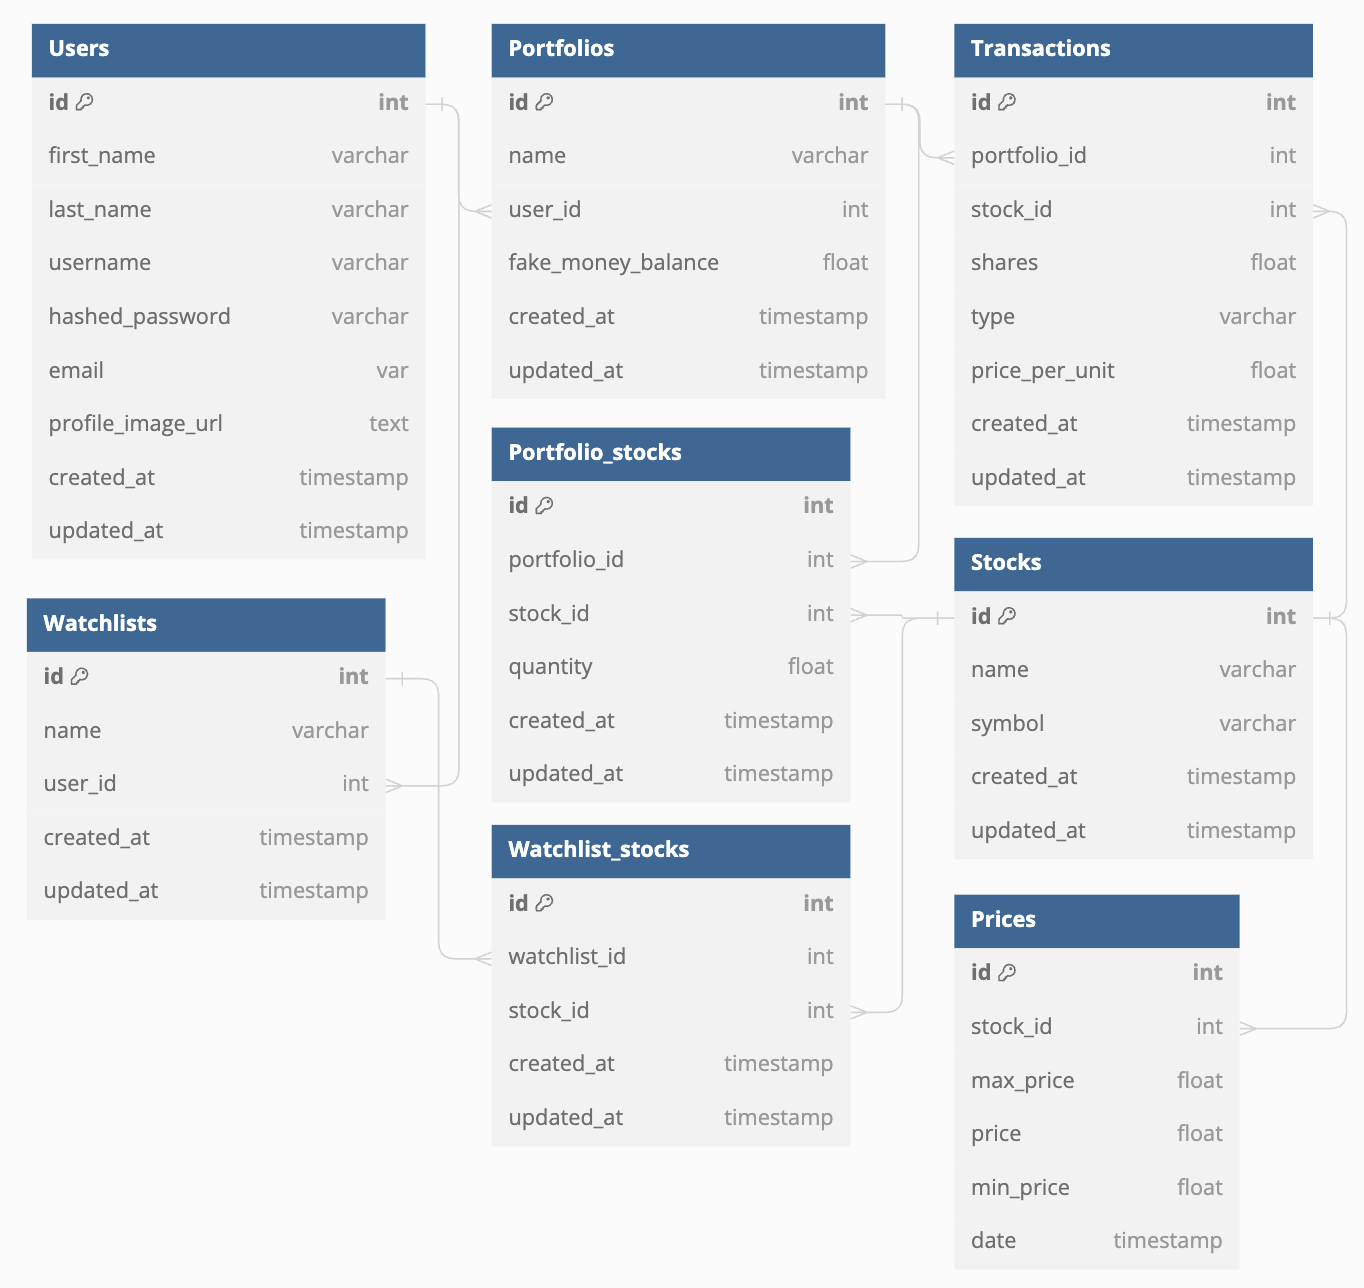
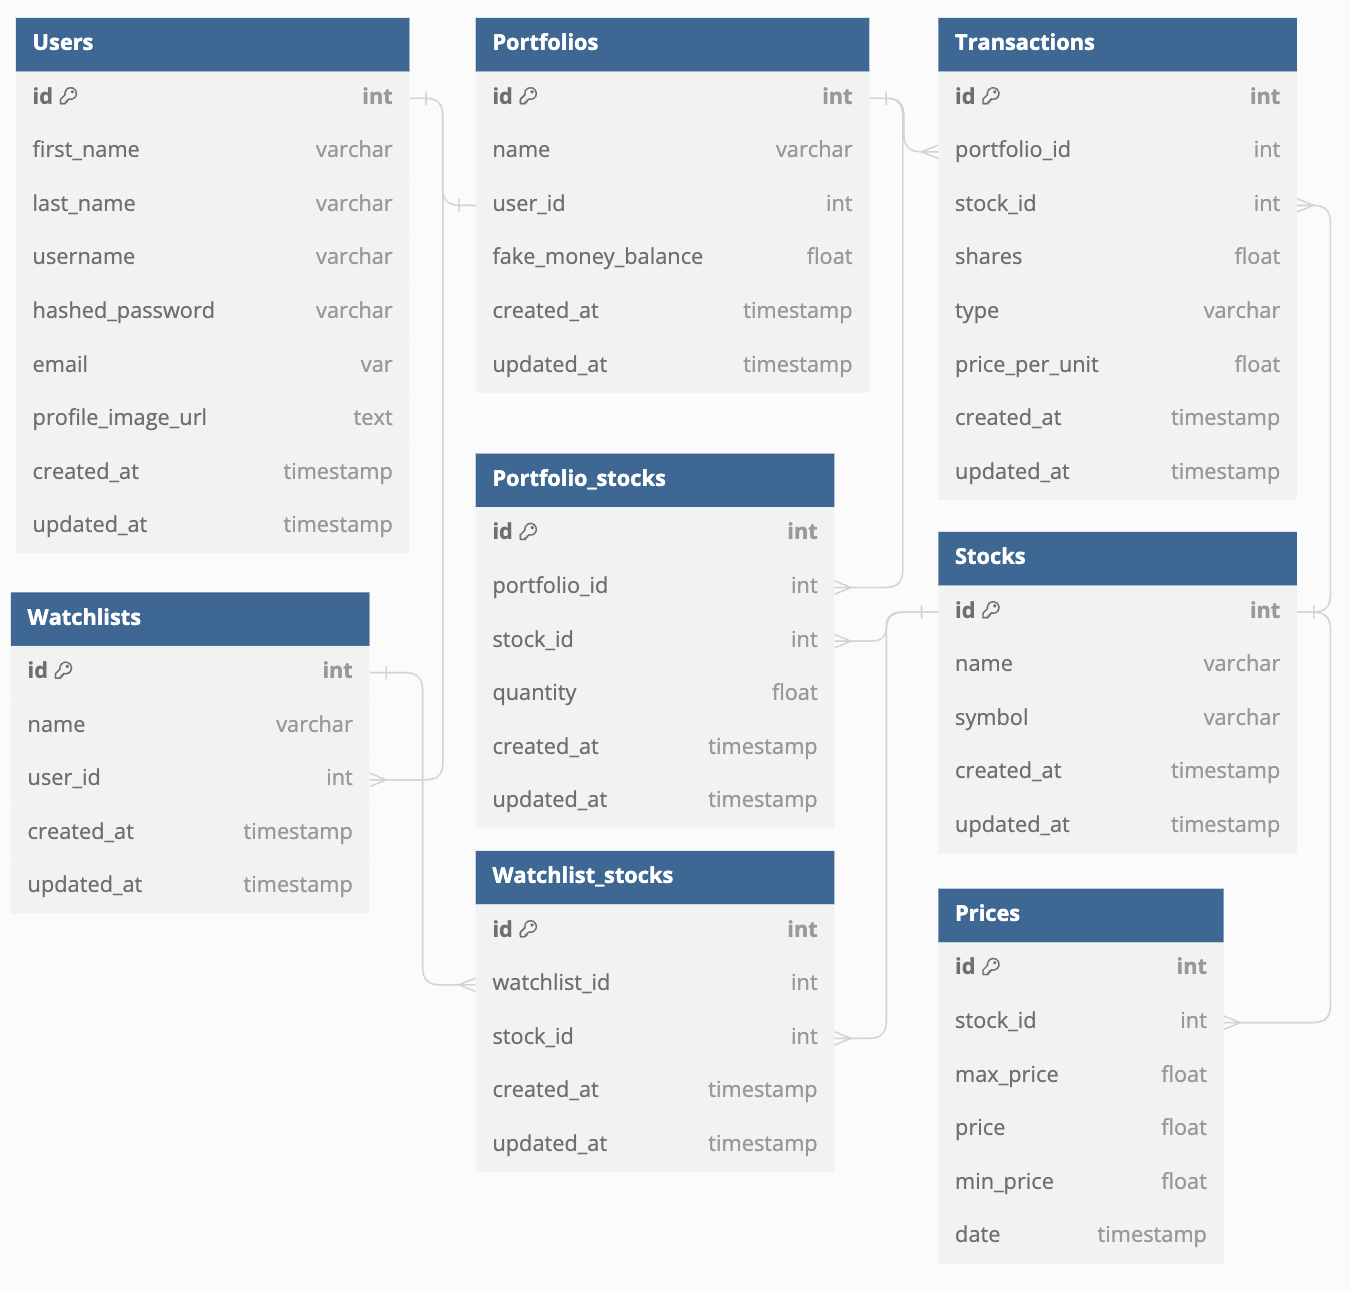
updated schema and kanban

diff --git a/designDocs/kanban.md b/designDocs/kanban.md
@@ -18,19 +18,18 @@ All endpoints that require a current user to have the correct role(s) or permiss
 Creates a new user, logs them in as the current user, and returns the current user's information.
 
 - [ ] New user exists in the database after request
-- [ ] Successful response includes newly created `id`, `firstName`, `lastName`, `email`, `username`, `fund`, and `profile_image_url`
-- [ ] Error response with status 500 is given when the specified email or username
-  already exists
-- [ ] Error response with status 400 is given when body validations for the `firstName`, `lastName`, `email`, `username`, `fund`, or `profile_image_url` are violated
+- [ ] Successful response includes newly created `id`, `firstName`, `lastName`, `email`, `username`, and `profile_image_url`
+- [ ] Error response with status 500 is given when the specified `email` or `username` already exists
+- [ ] Error response with status 400 is given when body validations for the `firstName`, `lastName`, `email`, `username`, or `profile_image_url` are violated
 
 
 ### Log In a User (Feature 0)
 
 Logs in a current user with valid credentials and returns the current user's information.
 
-- [ ] Successful response includes the user's `id`, `firstName`, `lastName`, `email`, `username`, `fund`, and `profile_image_url`
+- [ ] Successful response includes the user's `id`, `firstName`, `lastName`, `email`, `username`, and `profile_image_url`
 - [ ] Error response with status 401 is given when invalid credentials are given
-- [ ] Error response with status 400 is given when body validations for the `email`, `firstName`, or `lastName` are violated
+- [ ] Error response with status 400 is given when body validations for the `email`, `username`, `firstName`, or `lastName` are violated
 
 
 ### Get the Current User (Feature 0)
@@ -38,43 +37,41 @@ Logs in a current user with valid credentials and returns the current user's inf
 Returns the information about the current user that is logged in.
 
 - [ ] An authenticated user is required for a successful response
-- [ ] Successful response includes the user's `id`, `firstName`, `lastName`, `email`, `username`, `fund`, and `profile_image_url`
+- [ ] Successful response includes the user's `id`, `firstName`, `lastName`, `email`, `username`, and `profile_image_url`
 
 
-### Get all the Current User Portfolios (feature 1)
+### Get all the Current User Portfolios (Feature 1)
 
 Return current user's portfolio list
 
 - [ ] An authenticated user is required for a successful response
 - [ ] Seed data exists in the database for portfolios to be returned.
 - [ ] Successful response includes each current user's portfolio in the database
-- [ ] Portfolio data returned includes the `id`, `user_id`, `email`, `username`, `stock_id`, `stock_name`, `stock_symbol`, `shares`, `created_at`, `updated_at`
+- [ ] Portfolio data returned includes the `id`, `portfolio_name`, `fake_money_balance`, `user_id`, `email`, `username`, `stock_id`, `stock_name`, `stock_symbol`, `stock_shares`, `price_per_unit`, `created_at`, `updated_at`
 
 
-### Create a Portfolio
+### Create a Portfolio (Feature 1)
 
 Creates and returns a new portfolio
 
 - [ ] An authenticated user is required for a successful response
 - [ ] New portfolio exists in the database after request
-- [ ] Portfolio data returned includes the `id`, `user_id`, `portfolio_name`, `stock_id`, `stock_name`, `stock_symbol`, `shares`, `purchase_price`, `created_at`, `updated_at`
-- [ ] Error response with status 400 is given when body validations for the `portfolio_name` and `shares` are violated
-- [ ] Error response with status 404 is given when `stock_name`, `stock_symbol` not found.
+- [ ] Portfolio data returned includes the `id`, `portfolio_name`, `fake_money_balance`, `user_id`, `email`, `username`, `stock_id`, `stock_name`, `stock_symbol`, `stock_shares`, `price_per_unit`, `created_at`, `updated_at`
+- [ ] Error response with status 400 is given when body validations for the `portfolio_name` and `fake_money_balance` are violated
 
-### Update a Portfolio
+### Update a Portfolio (Feature 1)
 
 Updates and returns an existing portfolio
 
 - [ ] An authenticated user is required for a successful response
 - [ ] Only the owner of the portfolio is authorized to update
 - [ ] Portfolio record is updated in the database after request
-- [ ] Portfolio data returned includes the `id`, `portfolio_name`,  `user_id`, `stock_id`, `stock_name`, `stock_symbol`, `shares`, `purchase_price`, `created_at`, `updated_at`
-- [ ] Error response with status 400 is given when body validations for the `portfolio_name` and `shares` are violated
-- [ ] Error response with status 404 is given when `stock_name`, `stock_symbol` not found.
+- [ ] Portfolio data returned includes the `id`, `portfolio_name`, `fake_money_balance`, `user_id`, `email`, `username`, `stock_id`, `stock_name`, `stock_symbol`, `stock_shares`, `price_per_unit`, `created_at`, `updated_at`
+- [ ] Error response with status 400 is given when body validations for the `portfolio_name` and `fake_money_balance` are violated
 - [ ] Error response with status 404 is given when a portfolio does not exist with the provided `id`
 
 
-### Delete a Portfolio
+### Delete a Portfolio (Feature 1)
 
 Delete an existing portfolio
 
@@ -85,7 +82,7 @@ Delete an existing portfolio
 - [ ] Error response with status 404 is given when a portfolio does not exist with the provided `id`
 
 
-### Get Stocks Details
+### Get Stocks Details (Feature 2)
 
 Returns the details of a stock specified by its id.
 
@@ -94,34 +91,38 @@ Returns the details of a stock specified by its id.
 - [ ] Error response with status 404 is given when a stock does not exist with the provided `id`
 
 
-### Purchase Stocks and Add them to User's Portfolio
+### Purchase Stocks and Add them to User's Portfolio (Feature 2)
 
-Return the purchased stock  and add it to specified portfolio
+Return the stock purchased order  and add it to specified portfolio
 
 - [ ] An authenticated user is required for a successful response
 - [ ] New stock purchased order exists in the database after request
-- [ ] Stock purchased order data returned includes the `id`, `portfolio_name`,  `user_id`, `stock_id`, `stock_name`, `stock_symbol`, `shares`, `purchase_price`, `created_at`, `updated_at`
-- [ ] Error response with status 400 is given when body validations for the `shares` is violated
+- [ ] Stock purchased order data returned includes the `id`, `portfolio_id`, `portfolio_name`, `user_id`,`username`, `stock_id`, `stock_name`, `stock_symbol`, `quantity`, `price_per_unit`,  `transaction_type`, `created_at`, `updated_at`
+- [ ] Error response with status 400 is given when body validations for the `quantity` is violated
 - [ ] Error response with status 404 is given when a stock does not exist with the provided `id`
 - [ ] Error response with status 404 is given when a portfolio does not exist with the provided `id`
 
 
-### Update the Amount of Stocks
+### Update the Amount of Stocks (Feature 2)
 
 Updates and returns an existing stock purchased order
 
 - [ ] An authenticated user is required for a successful response
 - [ ] Only the owner of the order is authorized to update
-- [ ] Stock record is updated from existing order in the database after request
-- [ ] Stock order data returned includes the `id`, `portfolio_name`,  `user_id`, `stock_id`, `stock_name`, `stock_symbol`, `shares`, `purchase_price`, `created_at`, `updated_at`
-- [ ] Error response with status 400 is given when body validations for the `portfolio_name` and `shares` are violated
+- [ ] Stock transaction record is updated from an existing order in the database after request
+- [ ] Stock order data returned includes the `id`, `portfolio_id`, `portfolio_name`, `user_id`, `username`, `stock_id`, `stock_name`, `stock_symbol`, `quantity`, `price_per_unit`, `transaction_type`, `created_at`, `updated_at`
+- [ ] Error response with status 400 is given when body validations for the `transaction_type` and `quantity` are violated
 - [ ] Error response with status 404 is given when `stock_name`, `stock_symbol` not found.
 - [ ] Error response with status 404 is given when a portfolio does not exist with the provided `id`
+- [ ] Error response with status 404 is given when a transaction does not exist with the provided `id`
 
 
-### Delete Stocks from user's order
+### Delete Stocks from user's  (Feature 2)
 
 Delete stocks from an existing order
 
 - [ ] An authenticated user is required for a successful response
 - [ ] Only the owner of the order is authorized to delete
+- [ ] Transaction record is removed from the database after request
+- [ ] Success response includes a `message` indicating a successful deletion
+- [ ] Error response with status 404 is given when a transaction does not exist with the provided `id`

diff --git a/designDocs/schema.md b/designDocs/schema.md
@@ -2,15 +2,14 @@
 
 ## `users`
 
-| column name | data type | details               |
-|-------------|-----------|-----------------------|
+| column name | data type | details                     |
+|-------------|-----------|-----------------------------|
 | id                | integer   | not null, primary key |
 | first_name        | string(50)| not null              |
 | last_name         | string(50)| not null              |
 | username          | string(50)| not null, unique      |
 | hashed_password   | string    | not null              |
 | email             | string    | not null, unique      |
-| fund              | float     |
 | profile_image_url | string    | not null              |
 | created_at        | date      |                       |
 | updated-at        | date      |                       |
